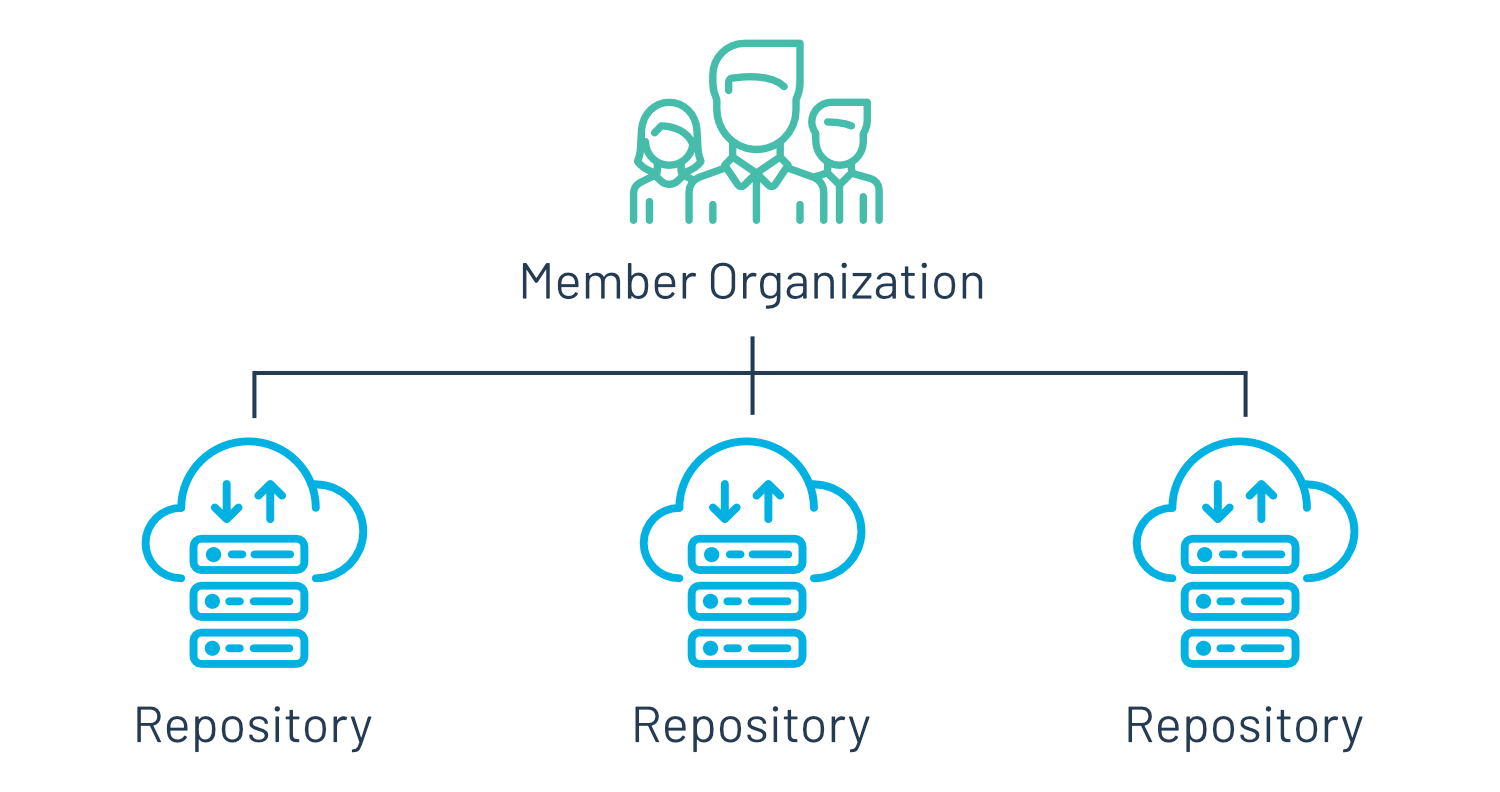
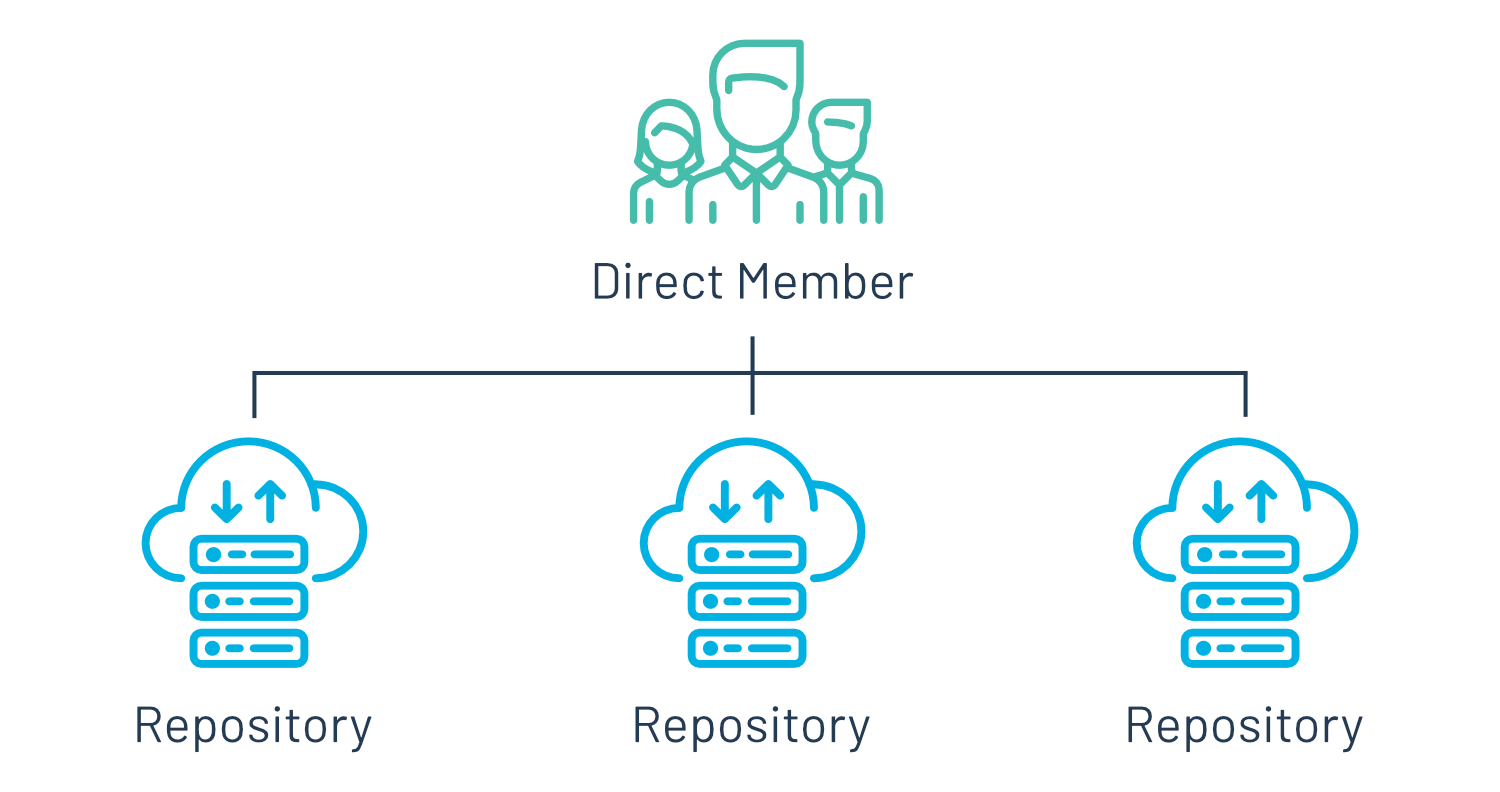
Become a member page updates to images/text versions

Changed region(s): [[0.3373, 0.3333, 0.6747, 0.3939]]

diff --git a/source/become.html.md b/source/become.html.md
@@ -28,9 +28,24 @@ This type of member supports DataCite’s research sharing mission and wants to 
 
 This type of member supports DataCite's research sharing mission and is an organization that works with one or more repositories within their organization. The repositories are under the same administrative structure as the organization.
 
-<div class="section-img-small">
-  ![](images/direct_member_2022.png)
+
+<img src="images/direct_member_2022.png" class="img-responsive" alt="”Direct Member diagram. Described under the heading Text version.">
+
+<div class="panel-group search-wide" id="direct-member-accordion" role="tablist" aria-multiselectable="true">
+<div class="panel panel-default">
+<div class="panel-heading" role="tab" id="direct-member-heading">
+<h5 class="panel-title">
+<a role="button" data-toggle="collapse" data-parent="#direct-member-accordion" href="#direct-member-description" aria-expanded="true" aria-controls="direct-member-description">Text version</a>
+</h4>
 </div>
+<div id="direct-member-description" class="panel-collapse collapse" role="tabpanel" aria-labelledby="direct-member-heading">
+ <div class="panel-body">This diagram shows the structure of a DataCite Direct Member and its repositories. The top icon in the hierarchy shows the “Member Organization,” from which three lines lead down to separate repositories. This diagram illustrates that a Direct Member can have one or more repositories.
+ </div>
+ </div>
+ </div>
+ </div>
+
+
 
 ## 3) Consortium
 
@@ -49,21 +64,72 @@ Consortium guidelines
 * Consortium Leads can distribute costs across the Consortium Organizations as per their own policies and structures.
 
 
-<div class="section-img">
-  ![](images/consortium_member_diagram_2022.png)
+<img src="images/consortium_member_diagram_2022.png" class="img-responsive" alt="”Consortium diagram. Described under the heading Text version.">
+
+<div class="panel-group search-wide" id="consortium-accordion" role="tablist" aria-multiselectable="true">
+<div class="panel panel-default">
+<div class="panel-heading" role="tab" id="consortium-heading">
+<h5 class="panel-title">
+<a role="button" data-toggle="collapse" data-parent="#consortium-accordion" href="#consortium-description" aria-expanded="true" aria-controls="consortium-description">Text version</a>
+</h4>
 </div>
+<div id="consortium-description" class="panel-collapse collapse" role="tabpanel" aria-labelledby="consortium-heading">
+ <div class="panel-body">This diagram shows the structure of a DataCite Consortium, which consists of a Consortium Lead, Consortium Organizations, their repositories. It illustrates that a Consortium has one Consortium Lead and several Consortium Organizations, each of which can have one or more repositories. The Consortium Lead can also be a Consortium Organization.
+
+The top icon in the hierarchy shows the “Consortium Lead,” from which three lines lead down to separate “Organizations”: “Organization 1 (Also Consortium Lead Role)” on the left, “Organization 2” in the middle and “Organization 3” on the right. 
+
+From  “Organization 1 (Also Consortium Lead Role)” two lines lead down to two separate repositories being on the third level of the diagram. Respectively “Organization 2” has a line that leads to one repository and “Organization 3” has two lines leading to two separate repositories. 
+
+ </div>
+ </div>
+ </div>
+ </div>
+
+
 
 # Registering DataCite DOIs
 
-<div class="section-img">
-  ![](images/OrganizationsV6.png)
+<img src="images/OrganizationsV8_portrait.png" class="img-responsive" alt="”Flowchart diagram showing DOI registration options. Described under the heading Text version.">
+
+<div class="panel-group search-wide" id="organizations-accordion" role="tablist" aria-multiselectable="true">
+<div class="panel panel-default">
+<div class="panel-heading" role="tab" id="organizations-heading">
+<h5 class="panel-title">
+<a role="button" data-toggle="collapse" data-parent="#organizations-accordion" href="#organizations-description" aria-expanded="true" aria-controls="organizations-description">Text version</a>
+</h4>
+</div>
+<div id="organizations-description" class="panel-collapse collapse" role="tabpanel" aria-labelledby="organizations-heading">
+ <div class="panel-body">Title: “What are my options if I want to start registering DataCite DOIs?”
+ 
+Top of the decision tree infographic begins Q: “Do you want to register DOIs for content in a repository managed by you?“
+
+<ol style="padding-right:10px">
+<li>If “No”, then “Researcher/Research group – Where are your outputs deposited? If you don't have a repository, you can use openly available services that register DOIs for research outputs.”</li>
+<li>If “Yes”, then Q: “Is your repository affiliated with a DataCite Member or Consortium  Organization?”</li>
+<ol style="padding-right:10px">
+<li>If “Yes”, then “Repository – Where are your outputs deposited? You can deposit your outputs in your own repository. Every DataCite Member or Consortium Organization can set up several Repository Accounts that each have their own prefix and login credentials. Responsibilities: Manage own repository account and preﬁx.”</li>
+<li>If “No”, then Q: “Do you want to register DOIs as part of a national, regional, or domain-speciﬁc consortium?”</li>
+<ol style="padding-right:10px">
+<li>If “Yes”, then “Consortium Organization – Where are your outputs deposited? You can deposit your outputs in one or multiple repositories that belong to your organization. Responsibilities: Manage one or more repository accounts and preﬁxes.”</li>
+<li>If “No”, then Q: “Will you only register DOIs for content within repositories that belong to your organization?”</li>
+<ol style="padding-right:10px">
+<li>If “Yes”, then “Direct Member – Where are your outputs deposited? You can deposit your outputs in one or multiple repositories that belong to your organization. Note that the organization should be the publisher in the metadata. Responsibilities: Manage one or more repository accounts and preﬁxes AND participate in DataCite governance.”</li>
+<li>If “No”, then Q: “Are you looking to provide DOI services to other organizations?”</li>
+<ol style="padding-right:10px">
+<li>If “Yes”, then “Consortium Lead – Where are your outputs deposited? Outputs can be deposited in one or multiple repositories that belong to the Consortium Organization in the Consortium. Responsibilities: Manage one or more repository accounts and preﬁxes AND participate in DataCite governance AND manage multiple Consortium Organization for which you provide first line support.”</li>
+<li>If “No”, then “Still not sure? Please contact us”</li>
+</ol>
+</ol>
+</ol>
+</ol>
+</ol>
+</div>
+</div>
+</div>
 </div>
 
 # Information for platforms
 
-<div class="section-img">
-  ![](images/PlatformsV6.png)
-</div>
 
 Within the DataCite community, there are a number of organizations, e.g. technology providers, that provide platforms for deposition of research outputs. Preferably, this is done as part of our Registered Service Providers Program.
 
@@ -75,6 +141,55 @@ Please note that when an organization:
 * Enables metadata curation by an external organization which is considered the publisher.
 
 this organization should join as a Consortium. Direct Members and Consortium Organizations cannot provide DOI services to external organizations.
+
+<img src="images/PlatformsV7.png" class="img-responsive" alt="How can I provide DataCite services as a platform? Table available under the heading Text version.">
+
+<div class="panel-group search-wide" id="platform-accordion" role="tablist" aria-multiselectable="true">
+<div class="panel panel-default">
+<div class="panel-heading" role="tab" id="platform-heading">
+<h5 class="panel-title">
+<a role="button" data-toggle="collapse" data-parent="#platform-accordion" href="#platform-description" aria-expanded="true" aria-controls="platform-description">Text version</a>
+</h4>
+</div>
+<div id="platform-description" class="panel-collapse collapse" role="tabpanel" aria-labelledby="platform-heading">
+ <div class="panel-body">
+ 
+<table class="table pricing">
+<thead>
+<tbody>
+<tr>
+<th>Direct Member</th>
+<th>Consortium Lead</th>
+<th>Service Provider</th>
+<th>Combination of Options</th>
+</tr>
+</thead>
+<tr>
+<td>Platform for individuals to deposit research outputs and resources AND metadata curation managed by the platform staff
+Your organization can register DOIs for the research outputs and resources in your repositories</td>
+<td>DOI registration services for multiple organizations, including branded repositories
+Your organization can onboard consortium organizations that register DOIs for the research outputs and resources in their repositories
+</td>
+<td>Technology to manage and register DOIs, including branded repositories
+Your organization can register as a DataCite service provider and provide DOI registration functionality to repositories using DataCite services</td>
+<td>DataCite Direct Member + Service provider
+Or
+DataCite Consortium Lead + Service Provider
+</td>
+</tr>
+<tr>
+<td>Direct Member Fees</td>
+<td>Consortium Fees. DataCite will apply the service fees to each organization that you provide DOIs to</td>
+<td>You can register as a DataCite Service provider for free. Organizations (your clients) use their own DataCite API credentials</td>
+<td>The relevant membership fees apply</td>
+</tr>
+</tbody>
+</table>
+
+ </div>
+ </div>
+ </div>
+ </div>
 
 
 # How to join DataCite ?
